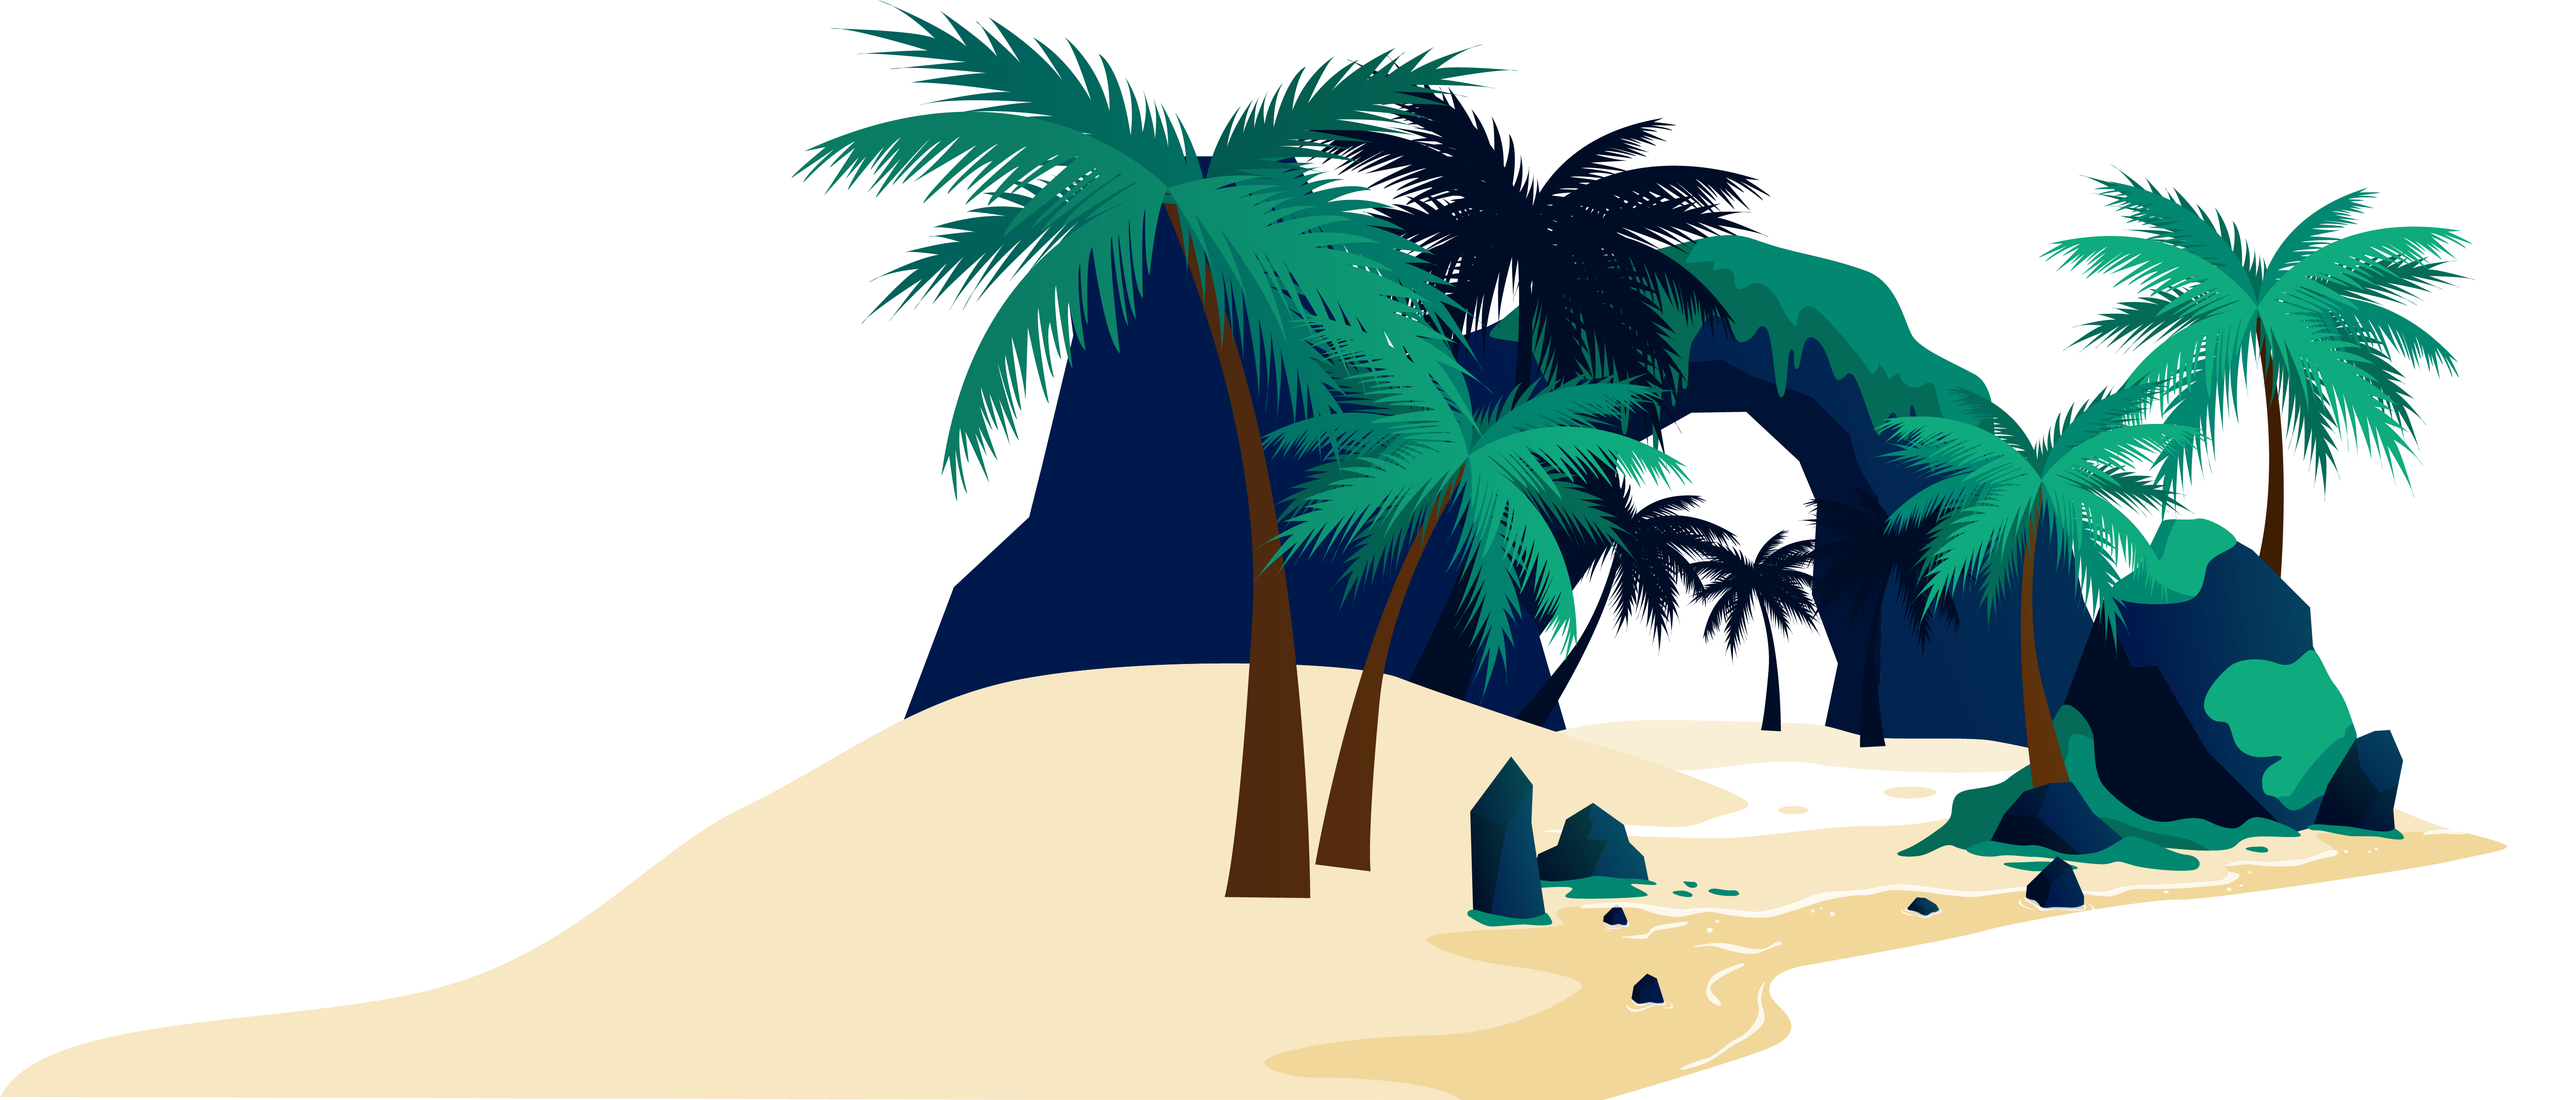
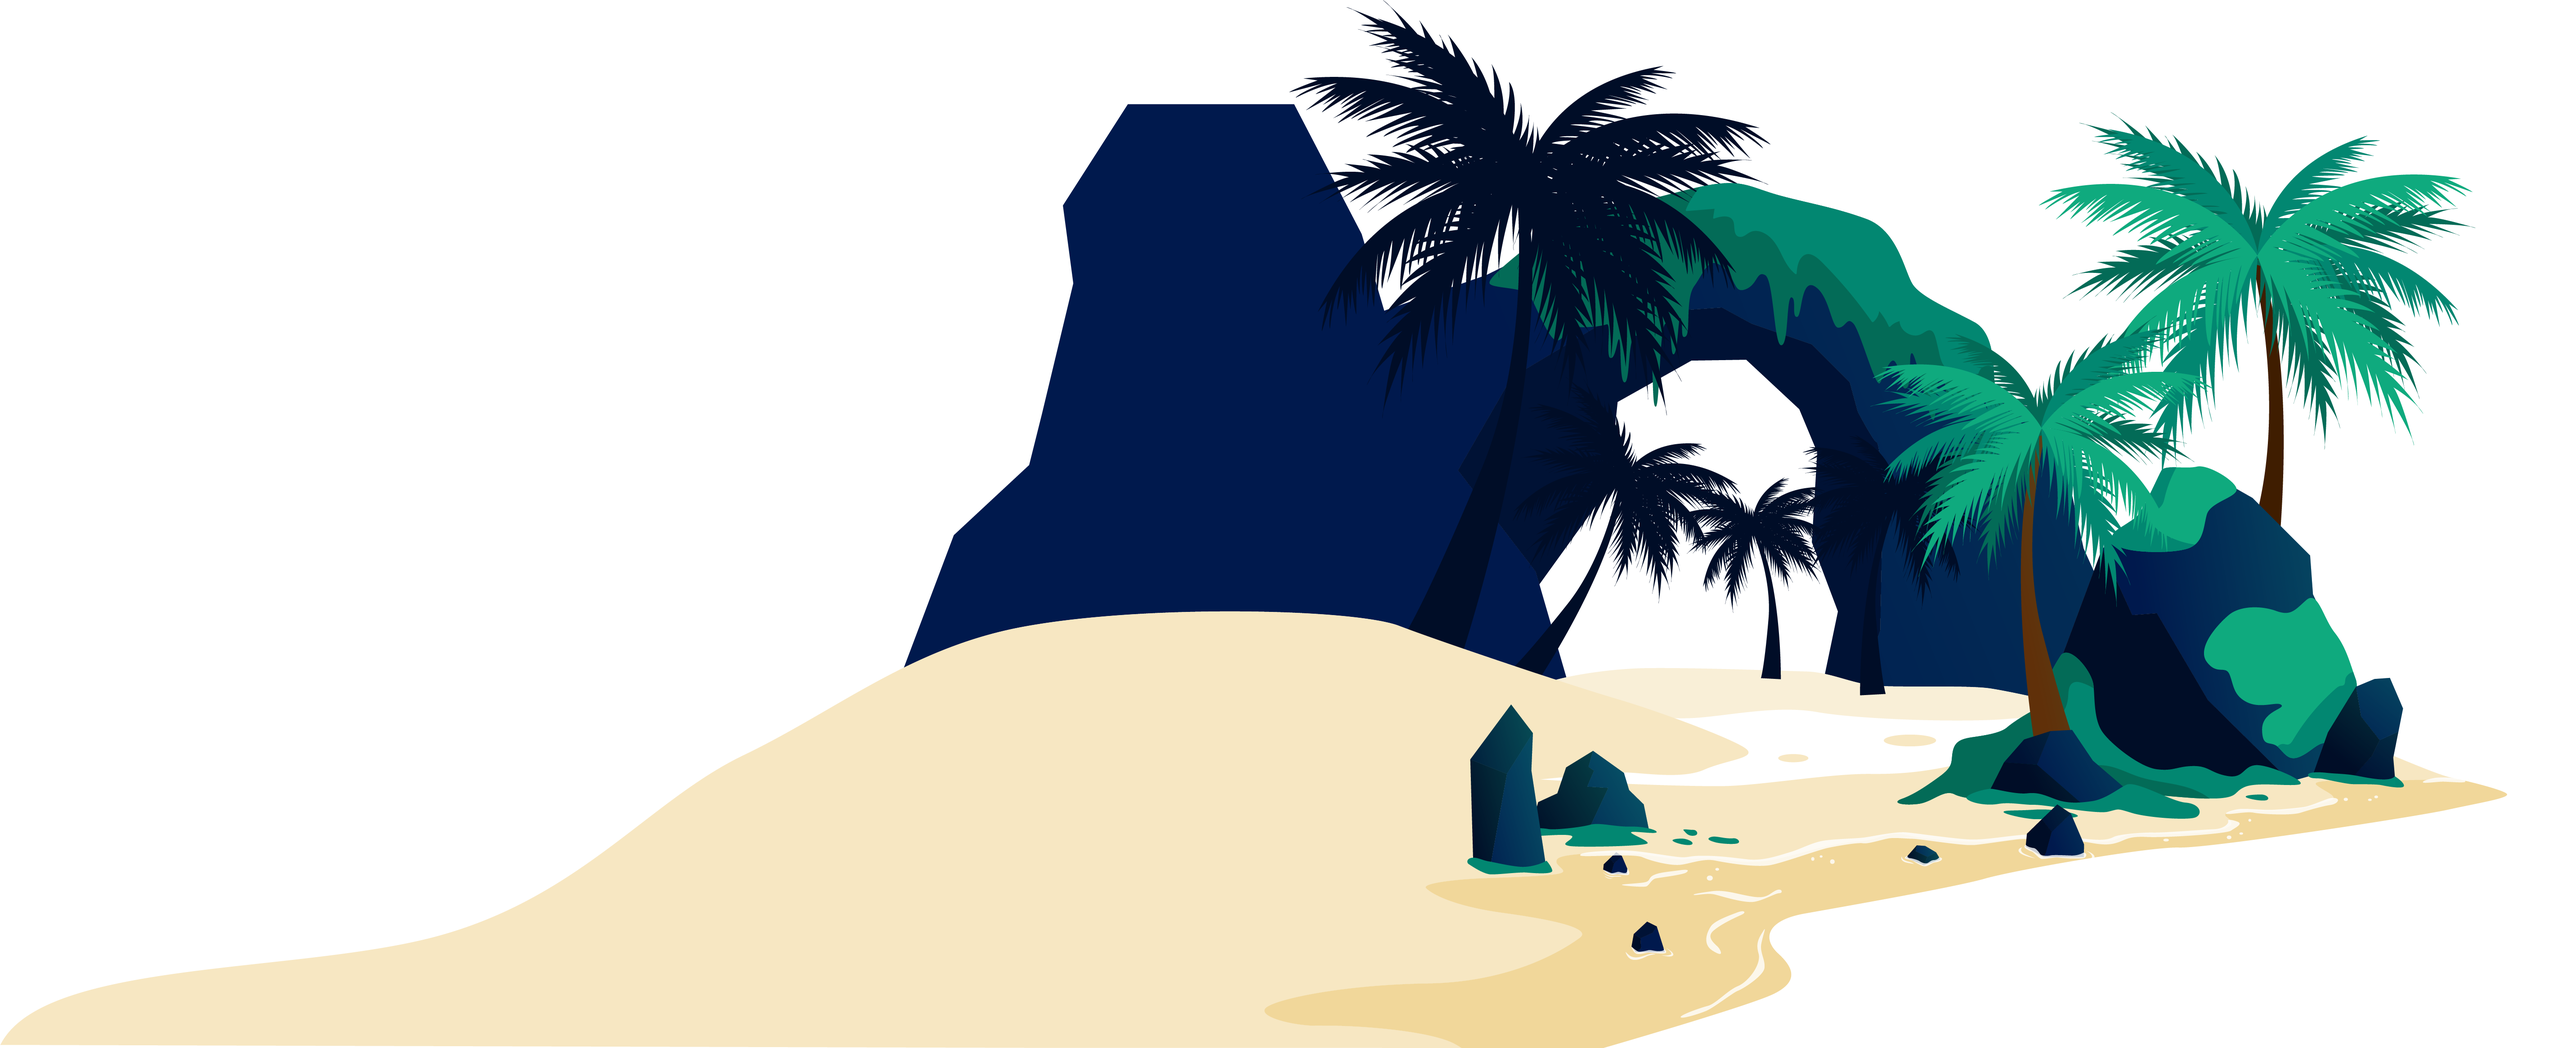
Chapter68/scene03 : wip

diff --git a/src/components/Chapter/datas/chapter68.js b/src/components/Chapter/datas/chapter68.js
@@ -157,6 +157,13 @@ export default {
       "zIndex": 21
     },
     {
+      "src": imageList.chapters.chapter68.scene02.palmier3,
+      "left": "38.2%",
+      "bottom": "20%",
+      "speedX": -5,
+      "zIndex": 19
+    },
+    {
       "src": imageList.chapters.chapter68.scene02.rocher1,
       "left": "39.5%",
       "bottom": "-0.15%",
@@ -184,7 +191,7 @@ export default {
       "zIndex": 16
     },
     {
-      "src": imageList.chapters.chapter68.scene02.montain,
+      "src": imageList.chapters.chapter68.scene02.mountain,
       "left": "31.2%",
       "bottom": "25%",
       "speedX": 15,
@@ -223,6 +230,49 @@ export default {
       "zIndex": 19
     },
 
+    // SCENE 03
+    {
+      "src": imageList.chapters.chapter68.scene03.sea,
+      "left": "50.1%",
+      "bottom": "-2.3%",
+      "speedX": 0,
+      "zIndex": 18
+    },
+    {
+      "src": imageList.chapters.chapter68.scene03.girl,
+      "left": "63.5%",
+      "bottom": "-125%",
+      "speedX": -20,
+      "speedY": -8,
+    },
+    {
+      "src": imageList.chapters.chapter68.scene03.rocher1,
+      "left": "54.5%",
+      "bottom": "-30%",
+      "speedX": -5,
+      "zIndex": 19
+    },
+    {
+      "src": imageList.chapters.chapter68.scene03.mountain1,
+      "left": "46%",
+      "bottom": "13%",
+      "speedX": 7,
+      "zIndex": 15
+    },
+    {
+      "src": imageList.chapters.chapter68.scene03.mountain2,
+      "left": "43.2%",
+      "bottom": "30%",
+      "speedX": 14,
+      "zIndex": 14
+    },
+    {
+      "src": imageList.chapters.chapter68.scene03.nuage1,
+      "left": "41.5%",
+      "top": "6%",
+      "speedX": 20,
+      "zIndex": 14
+    },
 
   ],
   "lottieAnimations": [
@@ -236,6 +286,7 @@ export default {
         "top": "0%",
         "zIndex": 30
       },
+      "speedAnimation": 2,
       "speedX": 0
     },
     {
@@ -247,6 +298,7 @@ export default {
         "top": "0%",
         "zIndex": 19
       },
+      "speedAnimation": 2,
       "progress": 0.5,
       "speedX": 0
     },

diff --git a/src/assets/ImagesList.js b/src/assets/ImagesList.js
@@ -142,19 +142,31 @@ export default imageList = {
 
         palmier1: require('./images/chapters/68/scene02/palmier1.png'),
         palmier2: require('./images/chapters/68/scene02/palmier2.png'),
+        palmier3: require('./images/chapters/68/scene02/palmier3.png'),
         rocher1: require('./images/chapters/68/scene02/rocher1.png'),
         rocher2: require('./images/chapters/68/scene02/rocher2.png'),
         rocher3: require('./images/chapters/68/scene02/rocher3.png'),
         rocher4: require('./images/chapters/68/scene02/rocher4.png'),
         rocher5: require('./images/chapters/68/scene02/rocher5.png'),
-        montain: require('./images/chapters/68/scene02/montain.png'),
+        mountain: require('./images/chapters/68/scene02/mountain.png'),
         beach: require('./images/chapters/68/scene02/beach.png'),
         sea: require('./images/chapters/68/scene02/sea.png'),
         sun: require('./images/chapters/68/scene02/sun.png'),
 
       },
       scene03: {
-        scene03: require('./images/chapters/68/scene03/scene03.png')
+        scene03: require('./images/chapters/68/scene03/scene03.png'),
+        girl: require('./images/chapters/68/scene03/girl.png'),
+        mountain1: require('./images/chapters/68/scene03/mountain1.png'),
+        mountain2: require('./images/chapters/68/scene03/mountain2.png'),
+        nuage1: require('./images/chapters/68/scene03/nuage1.png'),
+        nuage2: require('./images/chapters/68/scene03/nuage2.png'),
+        nuage3: require('./images/chapters/68/scene03/nuage3.png'),
+        nuage4: require('./images/chapters/68/scene03/nuage4.png'),
+        rocher1: require('./images/chapters/68/scene03/rocher1.png'),
+        rocher2: require('./images/chapters/68/scene03/rocher2.png'),
+        rocher3: require('./images/chapters/68/scene03/rocher3.png'),
+        sea: require('./images/chapters/68/scene03/sea.png'),
       },
       scene04: {
         scene04: require('./images/chapters/68/scene04/scene04.png')

diff --git a/src/components/Chapter/Chapter.js b/src/components/Chapter/Chapter.js
@@ -206,7 +206,7 @@ class Chapter extends React.Component {
                windowHeight={windowHeight}
                key={index}
                zIndex={10}
-               styles={{opacity: 1}}
+               styles={{opacity: 0.2}}
         />
       )
     })
@@ -323,7 +323,8 @@ class Chapter extends React.Component {
     const chapterNumber = this.currentChapter.numberInt
     this.beginTextTimeouts = []
     this.beginTextAudio = []
-    if (chapterNumber) {
+    console.log(this.props.currentOffset)
+    if (chapterNumber && this.props.currentOffset <= 0) {
       return chapterList['chapter'+chapterNumber].beginTextAudio.map((audio, index) => {
         AudioManager.prepareSound(audio.source, {
           volume: 1
